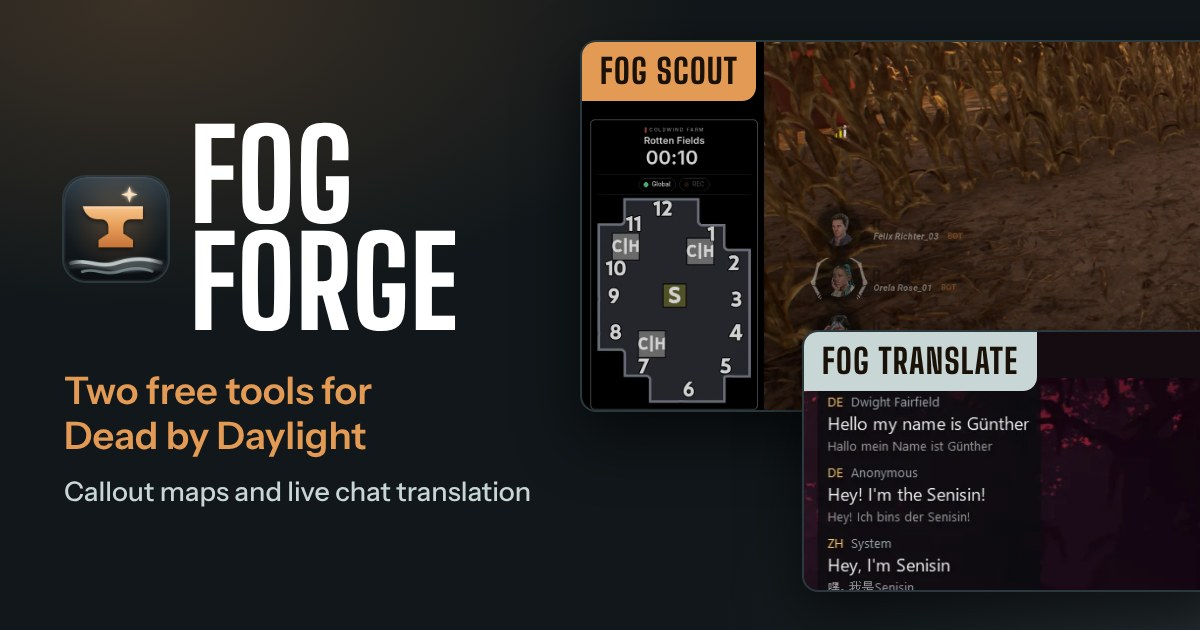
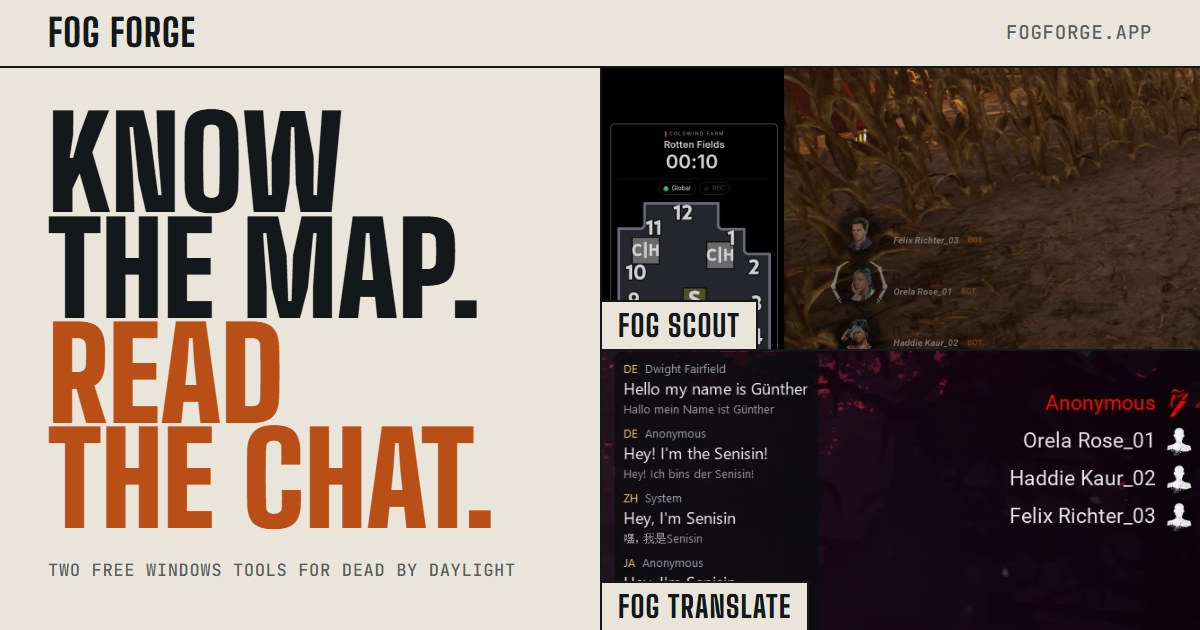
Link preview and README in the paper design
img/og.jpg is redrawn in the look of the start page (tools/og.html, with the fonts in fonts/ instead of Google's); og:image is v=4 so that sites fetch it. The README describes the design, the pictures of the programs and how to render the link preview.

diff --git a/tools/og.html b/tools/og.html
@@ -1,36 +1,35 @@
 <!doctype html>
 <!-- Source of img/og.jpg, the picture shown in link previews (Discord, X, ...).
-     Render at 1200x630: see README, "Link preview". -->
+     Render at 1200x630: see README, "Link preview". Same look as the start page: paper, ink, one rust colour. -->
 <html lang="en">
 <head>
 <meta charset="utf-8">
-<link rel="stylesheet" href="https://fonts.googleapis.com/css2?family=Big+Shoulders+Display:wght@800&family=Instrument+Sans:wght@500;600&display=swap">
 <style>
+@font-face { font-family: "Big Shoulders Display"; font-weight: 100 900; src: url(../fonts/big-shoulders-display-latin-wght-normal.woff2) format("woff2"); }
+@font-face { font-family: "JetBrains Mono"; font-weight: 100 800; src: url(../fonts/jetbrains-mono-latin-wght-normal.woff2) format("woff2"); }
 * { box-sizing: border-box; margin: 0; }
 html, body { width: 1200px; height: 630px; }
-body { background: #11171a; color: #c9d6d6; font-family: "Instrument Sans", sans-serif; overflow: hidden; position: relative; }
-body::before { content: ""; position: absolute; inset: 0;
-  background: radial-gradient(900px 500px at 12% 0%, rgba(227,154,85,.20), transparent 62%),
-              radial-gradient(800px 500px at 100% 100%, rgba(138,156,159,.16), transparent 60%); }
-.left { position: absolute; left: 64px; top: 0; bottom: 0; width: 470px; display: flex; flex-direction: column; justify-content: center; }
-.brand { display: flex; align-items: center; gap: 22px; }
-.brand img { width: 104px; height: 104px; border-radius: 22px; box-shadow: 0 0 0 2px #2b383d; }
-h1 { font-family: "Big Shoulders Display", sans-serif; font-weight: 800; font-size: 124px; line-height: .86; letter-spacing: .01em; text-transform: uppercase; color: #fff; }
-.tag { margin-top: 34px; font-size: 38px; line-height: 1.18; font-weight: 600; color: #e39a55; }
-.sub { margin-top: 16px; font-size: 27px; font-weight: 500; color: #c9d6d6; }
-.right { position: absolute; left: 580px; right: 0; top: 0; bottom: 0; }
-.shot { position: absolute; border-radius: 16px; overflow: hidden; border: 2px solid #2b383d; background: #000 center/cover no-repeat; box-shadow: 0 24px 60px rgba(0,0,0,.6); }
-.shot b { position: absolute; left: 0; top: 0; padding: 9px 18px 10px; font-family: "Big Shoulders Display", sans-serif; font-weight: 800; font-size: 34px; letter-spacing: .04em; text-transform: uppercase; color: #1a1109; background: #e39a55; border-bottom-right-radius: 14px; }
-.scout { left: 0; top: 40px; width: 700px; height: 372px; background-image: url(../img/match-rotten-fields.webp); background-size: 1500px auto; background-position: -10px -128px; }
-.translate { left: 222px; top: 330px; width: 420px; height: 262px; background-image: url(../img/translate-ingame.webp); background-size: 700px auto; background-position: 0 46px; background-color: #150c12; }
-.translate b { background: #c9d6d6; }
+body { background: #e9e5db; color: #14181a; overflow: hidden; position: relative; }
+.top { position: absolute; left: 0; right: 0; top: 0; height: 68px; padding: 0 48px; display: flex; align-items: center; justify-content: space-between; border-bottom: 2px solid #14181a; }
+.name { font: 800 38px/1 "Big Shoulders Display", sans-serif; letter-spacing: .03em; text-transform: uppercase; }
+.mono { font: 500 19px/1.3 "JetBrains Mono", monospace; letter-spacing: .04em; text-transform: uppercase; color: #575e5b; }
+.left { position: absolute; left: 48px; top: 68px; bottom: 0; width: 520px; display: flex; flex-direction: column; justify-content: center; gap: 26px; padding-bottom: 6px; }
+.left .mono { font-size: 17px; white-space: nowrap; }
+h1 { font: 900 127px/.83 "Big Shoulders Display", sans-serif; text-transform: uppercase; }
+h1 span { display: block; color: #b94f17; }
+.right { position: absolute; left: 600px; right: 0; top: 68px; bottom: 0; border-left: 2px solid #14181a; display: grid; grid-template-rows: 1fr 1fr; }
+.shot { position: relative; background: #000 no-repeat; }
+.shot + .shot { border-top: 2px solid #14181a; }
+.shot b { position: absolute; left: 0; bottom: 0; padding: 8px 16px 9px; background: #e9e5db; border-top: 2px solid #14181a; border-right: 2px solid #14181a; font: 800 30px/1 "Big Shoulders Display", sans-serif; letter-spacing: .04em; text-transform: uppercase; }
+.scout { background-image: url(../img/match-rotten-fields.webp); background-size: 1500px auto; background-position: -10px -150px; }
+.translate { background-image: url(../img/translate-ingame.webp); background-size: 640px auto; background-position: 0 -4px; background-color: #150c12; }
 </style>
 </head>
 <body>
+<div class="top"><span class="name">Fog Forge</span><span class="mono">fogforge.app</span></div>
 <div class="left">
-  <div class="brand"><img src="../img/icon-512.png" alt=""><h1>Fog<br>Forge</h1></div>
-  <p class="tag">Two free tools for Dead&nbsp;by&nbsp;Daylight</p>
-  <p class="sub">Callout maps and live chat translation</p>
+  <h1>Know<br>the map.<span>Read<br>the chat.</span></h1>
+  <p class="mono">Two free Windows tools for Dead by Daylight</p>
 </div>
 <div class="right">
   <div class="shot scout"><b>Fog Scout</b></div>

diff --git a/ru/index.html b/ru/index.html
@@ -10,7 +10,7 @@
 <meta property="og:description" content="Fog Scout и Fog Translate: две бесплатные программы для Windows для Dead by Daylight, которые только считывают то, что есть на вашем экране.">
 <meta property="og:type" content="website">
 <meta property="og:url" content="https://fogforge.app/ru/">
-<meta property="og:image" content="https://fogforge.app/img/og.jpg?v=3">
+<meta property="og:image" content="https://fogforge.app/img/og.jpg?v=4">
 <meta property="og:image:width" content="1200">
 <meta property="og:image:height" content="630">
 <meta property="og:image:alt" content="Fog Forge: two free tools for Dead by Daylight, Fog Scout and Fog Translate">

diff --git a/ja/index.html b/ja/index.html
@@ -10,7 +10,7 @@
 <meta property="og:description" content="Fog Scout と Fog Translate：画面に表示されている内容だけを読み取る、Dead by Daylight 用の無料 Windows ツールです。">
 <meta property="og:type" content="website">
 <meta property="og:url" content="https://fogforge.app/ja/">
-<meta property="og:image" content="https://fogforge.app/img/og.jpg?v=3">
+<meta property="og:image" content="https://fogforge.app/img/og.jpg?v=4">
 <meta property="og:image:width" content="1200">
 <meta property="og:image:height" content="630">
 <meta property="og:image:alt" content="Fog Forge: two free tools for Dead by Daylight, Fog Scout and Fog Translate">

diff --git a/fr/index.html b/fr/index.html
@@ -10,7 +10,7 @@
 <meta property="og:description" content="Fog Scout et Fog Translate : deux outils Windows gratuits pour Dead by Daylight qui lisent seulement ce qui s’affiche à l’écran.">
 <meta property="og:type" content="website">
 <meta property="og:url" content="https://fogforge.app/fr/">
-<meta property="og:image" content="https://fogforge.app/img/og.jpg?v=3">
+<meta property="og:image" content="https://fogforge.app/img/og.jpg?v=4">
 <meta property="og:image:width" content="1200">
 <meta property="og:image:height" content="630">
 <meta property="og:image:alt" content="Fog Forge: two free tools for Dead by Daylight, Fog Scout and Fog Translate">

diff --git a/ja/maps/index.html b/ja/maps/index.html
@@ -10,7 +10,7 @@
 <meta property="og:description" content="Dead by Daylight 用 Fog Scout の 6 種類のマップスタイルを、3 つのコールアウトマップで紹介します。">
 <meta property="og:type" content="website">
 <meta property="og:url" content="https://fogforge.app/ja/maps/">
-<meta property="og:image" content="https://fogforge.app/img/og.jpg?v=3">
+<meta property="og:image" content="https://fogforge.app/img/og.jpg?v=4">
 <meta property="og:image:width" content="1200">
 <meta property="og:image:height" content="630">
 <meta property="og:image:alt" content="Fog Forge: two free tools for Dead by Daylight, Fog Scout and Fog Translate">

diff --git a/it/index.html b/it/index.html
@@ -10,7 +10,7 @@
 <meta property="og:description" content="Fog Scout e Fog Translate: due strumenti gratuiti per Windows per Dead by Daylight che leggono solo ciò che c’è sul tuo schermo.">
 <meta property="og:type" content="website">
 <meta property="og:url" content="https://fogforge.app/it/">
-<meta property="og:image" content="https://fogforge.app/img/og.jpg?v=3">
+<meta property="og:image" content="https://fogforge.app/img/og.jpg?v=4">
 <meta property="og:image:width" content="1200">
 <meta property="og:image:height" content="630">
 <meta property="og:image:alt" content="Fog Forge: two free tools for Dead by Daylight, Fog Scout and Fog Translate">

diff --git a/es/index.html b/es/index.html
@@ -10,7 +10,7 @@
 <meta property="og:description" content="Fog Scout y Fog Translate: dos herramientas gratuitas para Windows para Dead by Daylight que solo leen lo que hay en tu pantalla.">
 <meta property="og:type" content="website">
 <meta property="og:url" content="https://fogforge.app/es/">
-<meta property="og:image" content="https://fogforge.app/img/og.jpg?v=3">
+<meta property="og:image" content="https://fogforge.app/img/og.jpg?v=4">
 <meta property="og:image:width" content="1200">
 <meta property="og:image:height" content="630">
 <meta property="og:image:alt" content="Fog Forge: two free tools for Dead by Daylight, Fog Scout and Fog Translate">

diff --git a/pl/index.html b/pl/index.html
@@ -10,7 +10,7 @@
 <meta property="og:description" content="Fog Scout i Fog Translate: dwa darmowe narzędzia dla Windows do Dead by Daylight, które czytają tylko to, co jest na ekranie.">
 <meta property="og:type" content="website">
 <meta property="og:url" content="https://fogforge.app/pl/">
-<meta property="og:image" content="https://fogforge.app/img/og.jpg?v=3">
+<meta property="og:image" content="https://fogforge.app/img/og.jpg?v=4">
 <meta property="og:image:width" content="1200">
 <meta property="og:image:height" content="630">
 <meta property="og:image:alt" content="Fog Forge: two free tools for Dead by Daylight, Fog Scout and Fog Translate">

diff --git a/de/index.html b/de/index.html
@@ -10,7 +10,7 @@
 <meta property="og:description" content="Fog Scout und Fog Translate: zwei kostenlose Windows-Tools für Dead by Daylight, die nur lesen, was auf deinem Bildschirm ist.">
 <meta property="og:type" content="website">
 <meta property="og:url" content="https://fogforge.app/de/">
-<meta property="og:image" content="https://fogforge.app/img/og.jpg?v=3">
+<meta property="og:image" content="https://fogforge.app/img/og.jpg?v=4">
 <meta property="og:image:width" content="1200">
 <meta property="og:image:height" content="630">
 <meta property="og:image:alt" content="Fog Forge: two free tools for Dead by Daylight, Fog Scout and Fog Translate">

diff --git a/pt/index.html b/pt/index.html
@@ -10,7 +10,7 @@
 <meta property="og:description" content="Fog Scout e Fog Translate: duas ferramentas gratuitas para Windows para Dead by Daylight que só leem o que está na sua tela.">
 <meta property="og:type" content="website">
 <meta property="og:url" content="https://fogforge.app/pt/">
-<meta property="og:image" content="https://fogforge.app/img/og.jpg?v=3">
+<meta property="og:image" content="https://fogforge.app/img/og.jpg?v=4">
 <meta property="og:image:width" content="1200">
 <meta property="og:image:height" content="630">
 <meta property="og:image:alt" content="Fog Forge: two free tools for Dead by Daylight, Fog Scout and Fog Translate">

diff --git a/ko/index.html b/ko/index.html
@@ -10,7 +10,7 @@
 <meta property="og:description" content="Fog Scout와 Fog Translate: 화면에 보이는 것만 읽는 Dead by Daylight용 무료 Windows 도구 두 가지입니다.">
 <meta property="og:type" content="website">
 <meta property="og:url" content="https://fogforge.app/ko/">
-<meta property="og:image" content="https://fogforge.app/img/og.jpg?v=3">
+<meta property="og:image" content="https://fogforge.app/img/og.jpg?v=4">
 <meta property="og:image:width" content="1200">
 <meta property="og:image:height" content="630">
 <meta property="og:image:alt" content="Fog Forge: two free tools for Dead by Daylight, Fog Scout and Fog Translate">

diff --git a/nl/index.html b/nl/index.html
@@ -10,7 +10,7 @@
 <meta property="og:description" content="Fog Scout en Fog Translate: twee gratis Windows-tools voor Dead by Daylight die alleen lezen wat er op je scherm staat.">
 <meta property="og:type" content="website">
 <meta property="og:url" content="https://fogforge.app/nl/">
-<meta property="og:image" content="https://fogforge.app/img/og.jpg?v=3">
+<meta property="og:image" content="https://fogforge.app/img/og.jpg?v=4">
 <meta property="og:image:width" content="1200">
 <meta property="og:image:height" content="630">
 <meta property="og:image:alt" content="Fog Forge: two free tools for Dead by Daylight, Fog Scout and Fog Translate">
